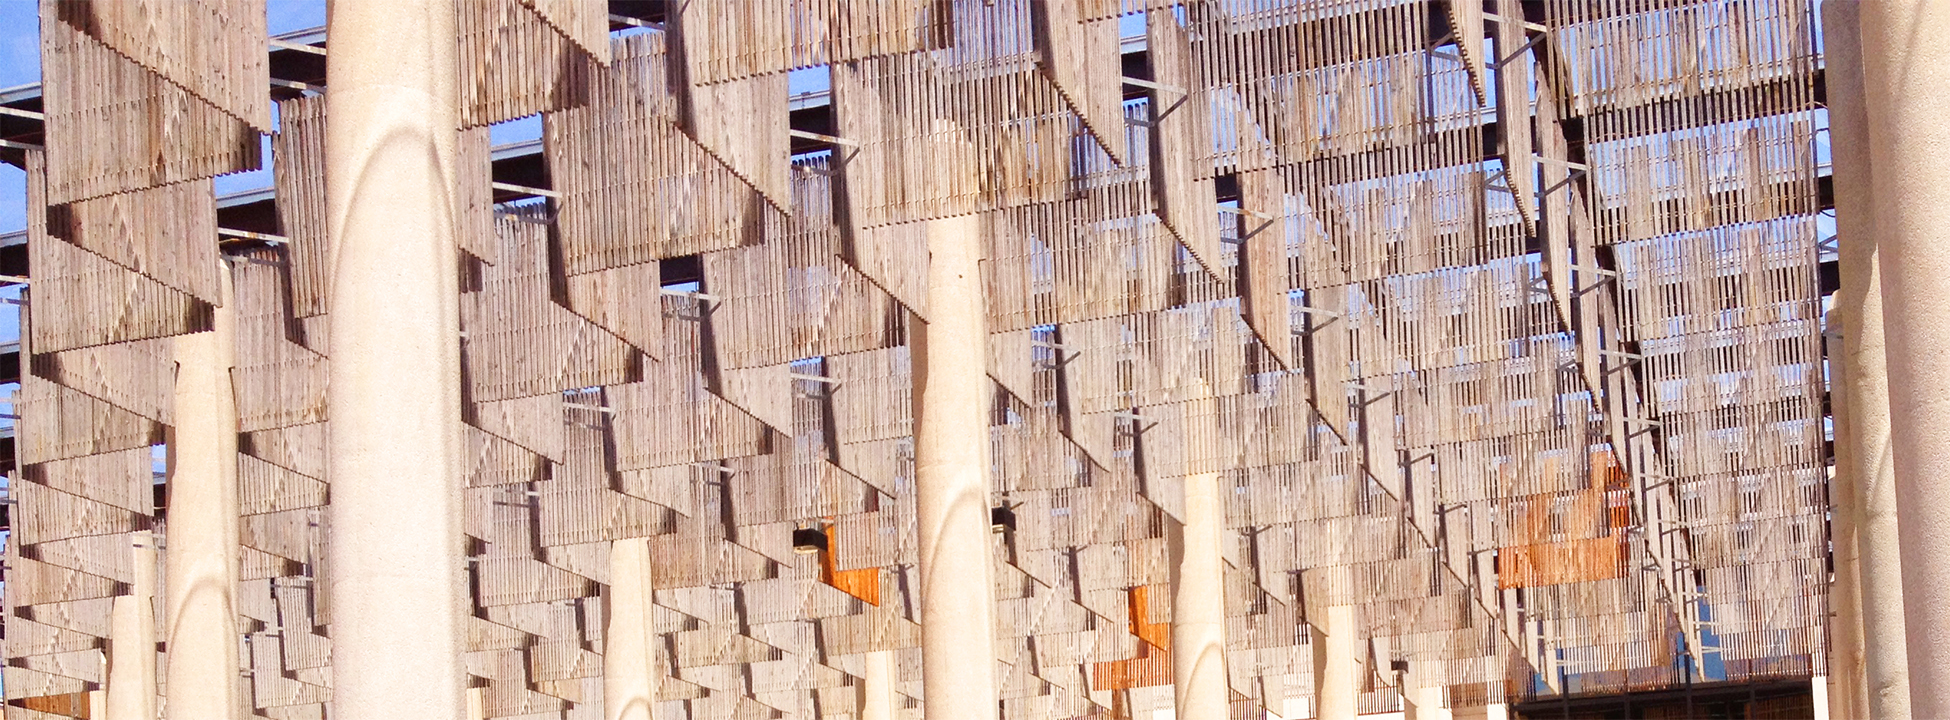
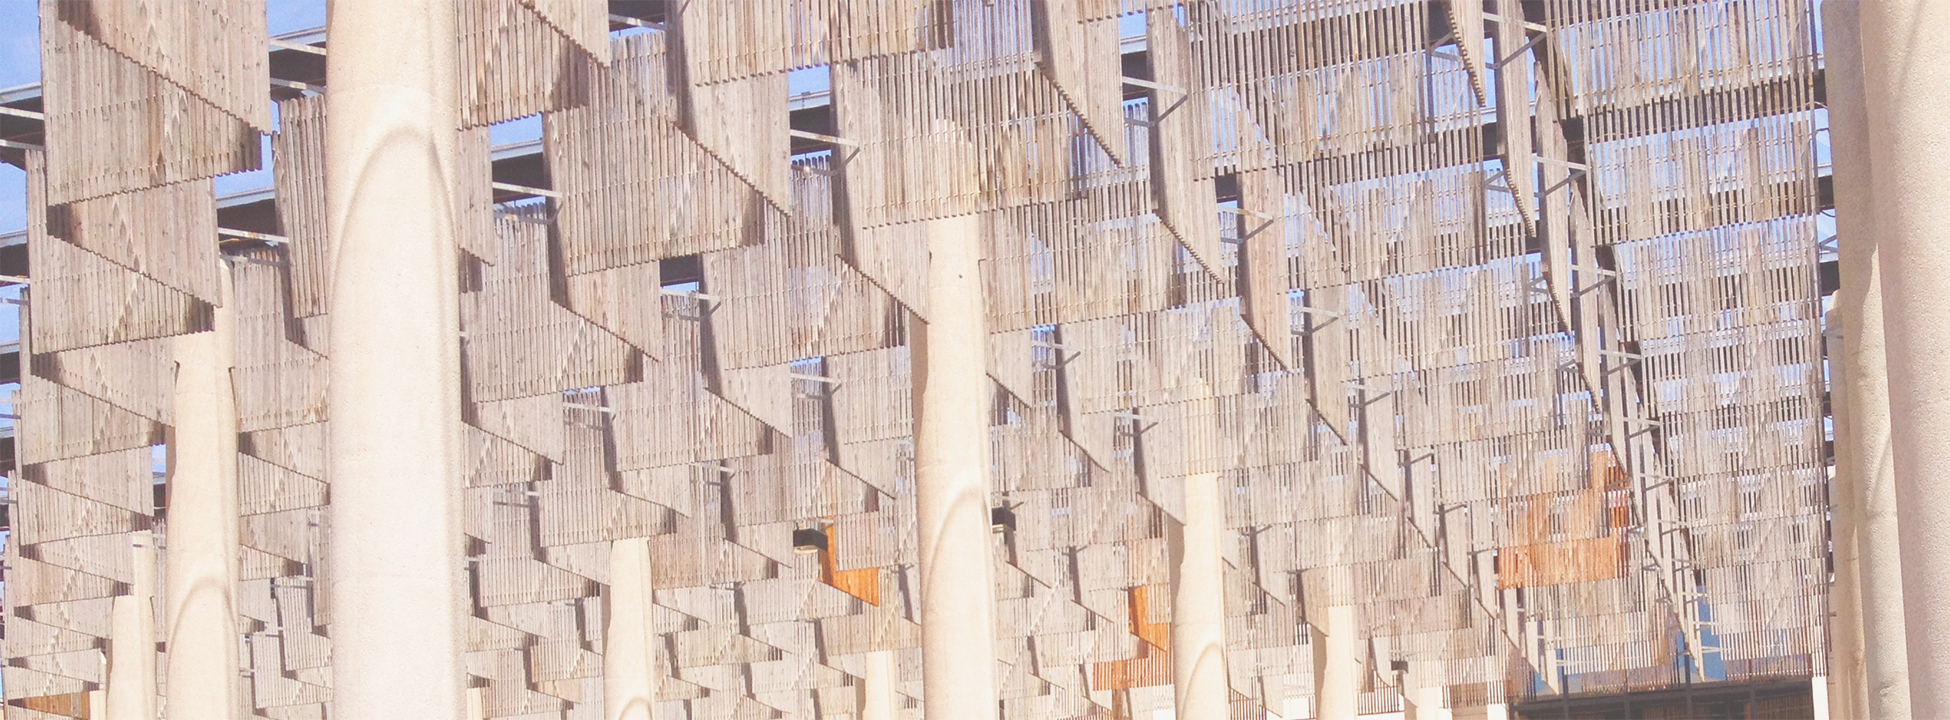
finish map and locations list

diff --git a/index.html b/index.html
@@ -18,7 +18,7 @@ Licence URI: http://www.os-templates.com/template-terms
 <!-- ################################################################################################ -->
 <!-- ################################################################################################ -->
 <!-- Top Background Image Wrapper -->
-<div class="wrapper row1 bgded overlay light" style="background-image:url('images/AET-facade2.jpg')"> 
+<div class="wrapper row1 bgded overlay light" style="background-image:url('images/AET-facade3.jpg')"> 
   <!-- ################################################################################################ -->
   <!-- ################################################################################################ -->
   <!-- ################################################################################################ -->
@@ -62,13 +62,13 @@ Licence URI: http://www.os-templates.com/template-terms
     </nav>
     <!-- ################################################################################################ -->
   </header>
-  <section id="pageintro" class="clear"> 
+  <section id="pageintro" class="clear nospace"> 
     <!-- ################################################################################################ -->
     <!--<i class="fa fa-smile-o"></i>-->
    <h1 class="font-x3 ssf uppercase"><img class="img_xsmall" src="images/utsa_site_cuwip_logo.png" /><br><b>January 15 - 17 </b></h1>
     <h2 class="font-x3">Welcome to the 2016 APS CUWiP at UTSA & SwRI</h2> 
     
-    <p>APS Conferences for Undergraduate Women in Physics (CUWiP) are three-day regional conferences for undergraduate physics majors.<br> View <a href="images/utsa_swri_cuwip_flyer.pdf">our conference flyer</a> and the <a href="images/apply/2016-CUWIP-Flyer.pdf"> national APS flyer</a>.</p>
+    <p><font class="font-x1">APS Conferences for Undergraduate Women in Physics (CUWiP) are three-day regional conferences for undergraduate physics majors.<br> View <a href="images/utsa_swri_cuwip_flyer.pdf">our conference flyer</a> and the <a href="images/apply/2016-CUWIP-Flyer.pdf"> national APS flyer</a>.</font></p>
     <p><a class="btn" href="http://www.aps.org/programs/women/workshops/cuwip.cfm" target="_blank">Apply Now</a></p>
     <!-- ################################################################################################ -->
   </section>
@@ -81,55 +81,60 @@ Licence URI: http://www.os-templates.com/template-terms
 <!-- ################################################################################################ -->
 <!-- ################################################################################################ -->
 <div class="wrapper row3">
-  <main class="container clear"> 
+  <!-- <main class="container clear"> -->
     <!-- main body -->
     <!-- ################################################################################################ -->
-     <div class="center btmspace-80">
+     <div class="container center btmspace-50">
       <h2 class="nospace uppercase">About the Conference</h2>
-    <div align="justify" class="btmspace-50"><p>The University of Texas at San Antonio (UTSA) and Southwest Research Institute (SwRI) are proud to be a host site for one of the 2016 Conferences for Undergraduate Women in Physics (CUWiP). The CUWiP conferences are three-day regional conferences for undergraduate physics majors showcasing career opportunities available to physicists through plenary talks, panel discussions, laboratory tours and interactive workshops. Participants will have the opportunity to network and interact with over 150 fellow undergraduate women physicists as well as a variety of academic, industrial, and government leaders.</p>
+    <div align="justify" ><p>The University of Texas at San Antonio (UTSA) and Southwest Research Institute (SwRI) are proud to be a host site for one of the 2016 Conferences for Undergraduate Women in Physics (CUWiP). The CUWiP conferences are three-day regional conferences for undergraduate physics majors showcasing career opportunities available to physicists through plenary talks, panel discussions, laboratory tours and interactive workshops. Participants will have the opportunity to network and interact with over 150 fellow undergraduate women physicists as well as a variety of academic, industrial, and government leaders.</p>
 
-<p><img class="imgr borderedbox inspace-5 img_xsmall" src="images/600px-Blank_US_map_borders_labels.png"><br><br>The CUWiP at UTSA and SwRI will be hosting students from the following states: Texas, Louisiana, Arkansas, Kansas, Oklahoma, and New Mexico. </p> </div>
+<p><img class="imgr img_xsmall" src="images/600px-Blank_US_map_borders_labels.png"><br><br>The CUWiP at UTSA and SwRI will be hosting students from the following states: Texas, Louisiana, Arkansas, Kansas, Oklahoma, and New Mexico. </p> </div>
 </div>
-<div class="clear btmspace-30"></div>
-    <div class="center btmspace-50">
-      <h2 class="nospace uppercase">Goals of the Conference</h2>
-      <!--<p class="nospace">The goals of the conference are to provide networking opportunities for undergraduate women; disseminate information about graduate schools and career opportunities; help undergraduate women connect with potential female mentors; and give undergraduate women the support they need to strive and be successful.</p>-->
-    </div>
-    <div class="group center">
-      <article class="one_quarter first"><i class="fa fa-3x fa-group light btmspace-30"></i>
+    <div class="container group center"><h2 class="uppercase btmspace-30">Goals of the Conference</h2>
+      <article class="one_quarter first btmspace-50"><i class="fa fa-3x fa-group light btmspace-30"></i>
         <h4 class="font-x1 orange uppercase">Networking</h4>
         <p>Provide networking opportunities for undergraduate women.</p>
       </article>
-      <article class="one_quarter"><i class="fa fa-3x fa-info light btmspace-30"></i>
+      <article class="one_quarter  btmspace-50"><i class="fa fa-3x fa-info light btmspace-30"></i>
         <h4 class="font-x1  orange uppercase">Opportunities</h4>
         <p>Disseminate information about graduate schools and career opportunities.</p>
       </article>
-      <article class="one_quarter"><i class="fa fa-3x fa-compass light btmspace-30"></i>
+      <article class="one_quarter btmspace-50"><i class="fa fa-3x fa-compass light btmspace-30"></i>
         <h4 class="font-x1 orange uppercase">Mentoring</h4>
         <p>Help undergraduate women connect with potential female mentors.</p>
       </article>
-      <article class="one_quarter"><i class="fa fa-3x fa-graduation-cap light btmspace-30"></i>
+      <article class="one_quarter btmspace-50"><i class="fa fa-3x fa-graduation-cap light btmspace-30"></i>
         <h4 class="font-x1 orange uppercase">Support</h4>
         <p>Give undergraduate women the support they need to strive and be successful.</p>
-      </article>
-    </div>
+      </article><p>&nbsp;</p>
+    
     <!-- ################################################################################################ -->
     <!-- / main body -->
-   <div class="clear"> </div> 
-   <section class="container clear"> <h2 class="uppercase btmspace-10">Locations</h2>
+   
+ <h2 class="uppercase btmspace-10">Locations</h2>
      <p class="nospace btmspace-10">The 2016 conferences will be held at the following locations:</p>
-    <ul class="nospace">
+    <div align="left" class="group container csmall">
+    <div class="one_third first"><ul class="nospace">
       <li><span class="fa fa-angle-double-right"></span><a class="passive" href="http://www.bhsu.edu/cuwip" target="_blank">&nbsp;Black Hills State University</a></li>
+   <li><span class="fa fa-angle-double-right"></span><a class="passive" href="http://u.osu.edu/cuwip/" target="_blank">&nbsp;Ohio State University</a></li>   
+ <li><span class="fa fa-angle-double-right"></span><a class="passive" href="http://cuwip.ucsd.edu/" target="_blank">&nbsp;University of California, San Diego</a></li>       
+      </ul>
+      </div>
+      <div class="one_third"><ul class="nospace">
       <li><span class="fa fa-angle-double-right"></span>&nbsp;Georgia Institute of Technology</li>
-      <li><span class="fa fa-angle-double-right"></span><a class="passive" href="http://www.odu.edu/physics/cuwip" target="_blank">&nbsp;Old Dominion University/Jefferson Lab</a></li>
-      <li><span class="fa fa-angle-double-right"></span><a class="passive" href="http://u.osu.edu/cuwip/" target="_blank">&nbsp;Ohio State University</a></li>
+      
       <li><span class="fa fa-angle-double-right"></span>&nbsp;Oregon State University</li>
+       <li><span class="fa fa-angle-double-right"></span><a class="passive" href="http://cuwip2016.utsa.edu/" target="_blank">&nbsp;University of Texas, San &nbsp;&nbsp;Antonio/Southwest Research Institute</a></li>
+      </ul>
+      </div>
+      <div class="one_third"><ul class="nospace">
+      <li><span class="fa fa-angle-double-right"></span><a class="passive" href="http://www.odu.edu/physics/cuwip" target="_blank">&nbsp;Old Dominion University/Jefferson Lab</a></li>
       <li><span class="fa fa-angle-double-right"></span>&nbsp;Syracuse University</li>
-      <li><span class="fa fa-angle-double-right"></span><a class="passive" href="http://cuwip.ucsd.edu/" target="_blank">&nbsp;University of California, San Diego</a></li>
-      <li><span class="fa fa-angle-double-right"></span><a class="passive" href="http://cuwip2016.utsa.edu/" target="_blank">&nbsp;University of Texas, San Antonio/Southwest Research Institute</a></li>
-      <li><span class="fa fa-angle-double-right"></span><a class="passive" href="http://cuwip.conference.wesleyan.edu/" target="_blank">&nbsp;Wesleyan University</a></li>
-    </ul></section>
-  </main>
+     
+     
+      <li><span class="fa fa-angle-double-right"></span><a class="passive" href="http://cuwip.conference.wesleyan.edu/" target="_blank">&nbsp;Wesleyan University</a></li></ul></div>
+    </div>
+ <!-- </main> -->
 </div>
 <!-- ################################################################################################ -->
 <!-- ################################################################################################ -->

diff --git a/layout/styles/layout.css b/layout/styles/layout.css
@@ -45,6 +45,7 @@ File: Layout CSS
 /* Content Area
 --------------------------------------------------------------------------------------------------------------- */
 .container{padding:80px 0;}
+.container.csmall{padding:7px 0px;}
 
 /* Content */
 .container .content{}
